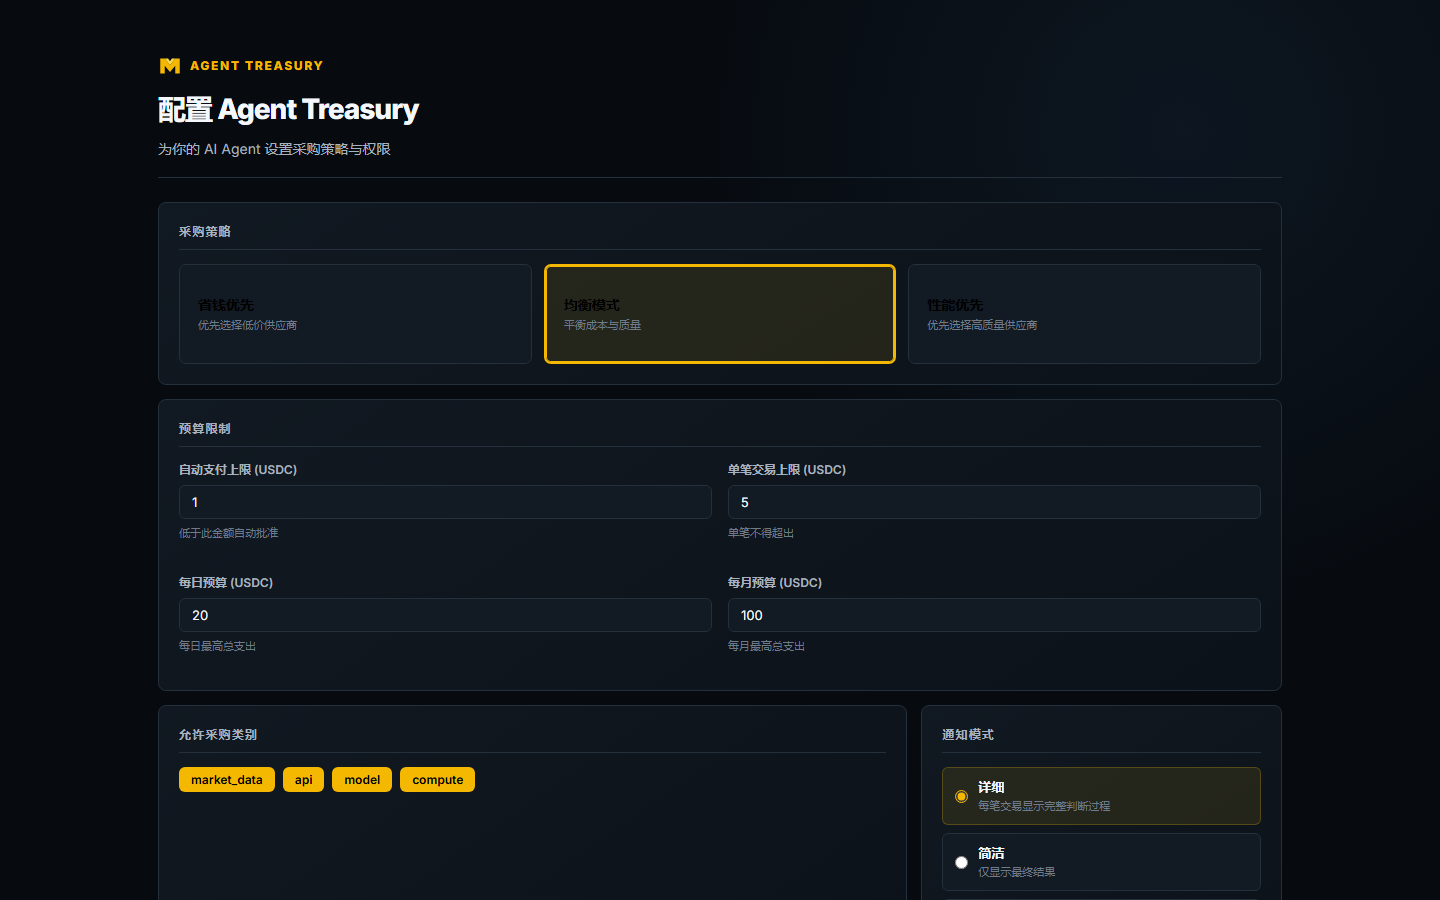
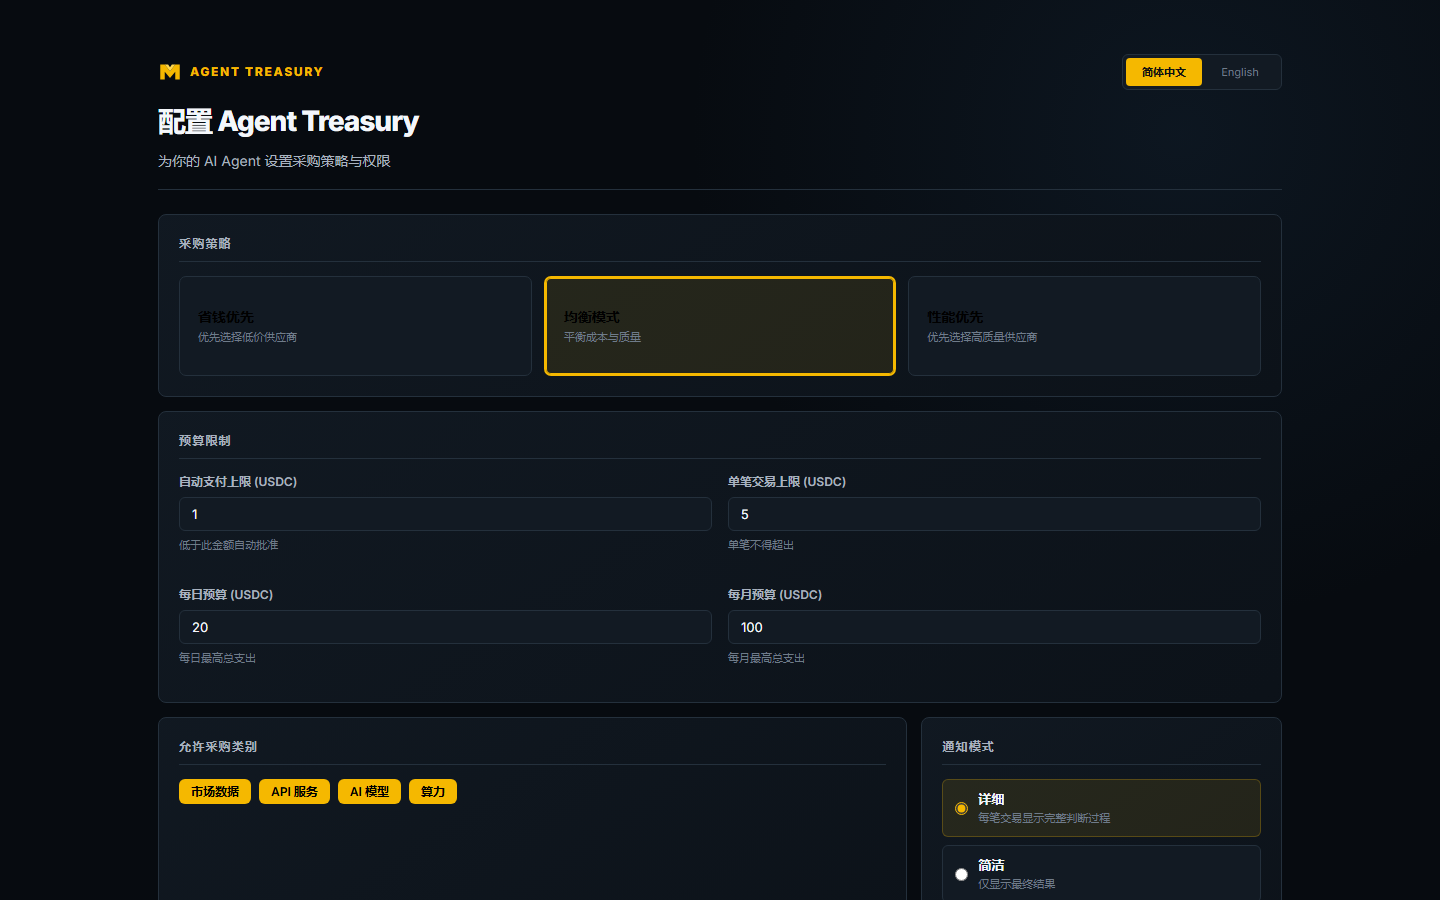
fix: add onboarding language switch

diff --git a/apps/demo-ui/src/index.css b/apps/demo-ui/src/index.css
@@ -396,7 +396,12 @@ body { background: radial-gradient(circle at 82% 12%, rgba(28, 52, 76, .28), tra
 /* V2 onboarding and secondary workspaces */
 .setup-container { max-width: 1180px; margin: 0 auto; padding: 34px 28px 58px; }
 .setup-header { text-align: left; margin-bottom: 24px; padding: 20px 0 18px; border-bottom: 1px solid var(--border); }
-.setup-logo { margin-bottom: 10px; font-size: 12px; letter-spacing: .14em; display:flex; align-items:center; gap:8px; }.setup-logo img { width:24px; height:24px; }.setup-title { font-size: 28px; letter-spacing: -.035em; }.setup-sub { color: var(--text-secondary); }
+.setup-header-bar { display:flex; align-items:center; justify-content:space-between; gap:20px; margin-bottom:10px; }
+.setup-logo { margin-bottom: 0; font-size: 12px; letter-spacing: .14em; display:flex; align-items:center; gap:8px; }.setup-logo img { width:24px; height:24px; }.setup-title { font-size: 28px; letter-spacing: -.035em; }.setup-sub { color: var(--text-secondary); }
+.setup-language { display:flex; padding:3px; border:1px solid var(--border); border-radius:6px; background:var(--surface2); }
+.setup-language button { min-width:76px; padding:7px 10px; border:0; border-radius:4px; color:var(--muted); background:transparent; font-size:11px; cursor:pointer; }
+.setup-language button:hover { color:var(--text); }
+.setup-language button.active { color:#111; background:var(--yellow); font-weight:700; }
 .setup-card { padding: 0; background: transparent; border: 0; display: grid; grid-template-columns: 1.35fr .65fr; gap: 14px; }
 .setup-section { margin: 0; padding: 20px; background: linear-gradient(145deg, rgba(17,25,34,.98), rgba(12,18,25,.98)); border: 1px solid var(--border); border-radius: 8px; }
 .setup-section:nth-child(1),.setup-section:nth-child(2),.setup-actions { grid-column: 1 / -1; }.setup-section-title { color: var(--text-secondary); }
@@ -420,7 +425,7 @@ body { background: radial-gradient(circle at 82% 12%, rgba(28, 52, 76, .28), tra
 .settings-contact { display:flex; align-items:center; justify-content:space-between; gap:24px; margin-top:16px; padding:18px 20px; border-top:1px solid var(--border); color:var(--text-secondary); }.settings-contact-title { margin-bottom:4px; color:var(--text); font-size:13px; font-weight:700; }.settings-contact p { margin:0; color:var(--muted); font-size:11px; }.settings-contact a { display:flex; align-items:center; gap:10px; min-width:220px; padding:10px 12px; border:1px solid var(--border); border-radius:6px; background:var(--surface2); color:var(--text); text-decoration:none; transition:border-color .15s ease,background .15s ease; }.settings-contact a:hover { border-color:var(--yellow-border); background:var(--yellow-bg); }.settings-contact a > span:nth-child(2) { display:flex; flex:1; flex-direction:column; gap:2px; }.settings-contact a b { font-size:12px; }.settings-contact a small { color:var(--muted); font-size:10px; }.x-mark { display:grid; place-items:center; width:28px; height:28px; border-radius:50%; background:#f4f6f8; color:#05080c; font-size:13px; font-weight:800; }.contact-arrow { color:var(--yellow); font-size:15px; }
 
 @media (max-width: 780px) {
-  .setup-container { padding: 20px 14px 80px; }.setup-card { grid-template-columns: 1fr; }.setup-section,.setup-section:nth-child(1),.setup-section:nth-child(2),.setup-actions { grid-column: 1; }.setup-actions .btn { flex: 1 !important; }
+  .setup-container { padding: 20px 14px 80px; }.setup-header-bar { align-items:flex-start; flex-direction:column; gap:12px; }.setup-language { align-self:stretch; }.setup-language button { flex:1; }.setup-card { grid-template-columns: 1fr; }.setup-section,.setup-section:nth-child(1),.setup-section:nth-child(2),.setup-actions { grid-column: 1; }.setup-actions .btn { flex: 1 !important; }
   .scenario-control { position:absolute; top:134px; left:14px; height:36px; padding:0 8px; }.scenario-control > span { display:none; }.workspace-actions { padding-bottom:46px; }.app-nav { overflow-x:auto; }.nav-btn { min-width:70px; }.approval-list-card { grid-template-columns:auto 1fr; }.approval-amount,.approval-list-card .btn { grid-column:2; }.report-kpis { grid-template-columns:1fr 1fr; }.analytics-grid,.dimension-grid { grid-template-columns:1fr; }.report-actions { align-items:flex-end; flex-direction:column; }.segment-control button { min-width:46px; padding:6px; }.ledger-toolbar { grid-template-columns:1fr 1fr; }.ledger-toolbar > span { text-align:left; }.detail-drawer { padding:18px; }.reconciliation-item { grid-template-columns:1fr auto; }.reconciliation-item > :nth-child(3) { grid-column:1; }.reconciliation-item .btn { grid-column:2; grid-row:1/3; }
   .accounting-query form { grid-template-columns:1fr; }.accounting-query form .btn { width:100%; }
   .settings-contact { align-items:flex-start; flex-direction:column; }.settings-contact a { width:100%; min-width:0; }

diff --git a/apps/demo-ui/src/pages/SetupPage.tsx b/apps/demo-ui/src/pages/SetupPage.tsx
@@ -1,5 +1,5 @@
-import { useState } from 'react';
-import { t, i18n } from '../i18n';
+import { useEffect, useState } from 'react';
+import { t, i18n, type Lang } from '../i18n';
 import { policyApi } from '../api/client';
 
 interface SetupDone {
@@ -10,8 +10,9 @@ const STRATEGIES = ['economy', 'balanced', 'performance'] as const;
 const CATEGORIES = ['market_data', 'api', 'model', 'compute'];
 
 export default function SetupPage({ onDone }: { onDone: SetupDone }) {
+  const [lang, setLang] = useState<Lang>(i18n.lang);
   const [, rerender] = useState(0);
-  useState(() => i18n.subscribe(() => rerender(n => n + 1)));
+  useEffect(() => i18n.subscribe(() => rerender(n => n + 1)), []);
 
   const [strategy, setStrategy] = useState<'economy' | 'balanced' | 'performance'>('balanced');
   const [autoPayLimit, setAutoPayLimit] = useState(1);
@@ -26,6 +27,11 @@ export default function SetupPage({ onDone }: { onDone: SetupDone }) {
     setCategories(prev =>
       prev.includes(cat) ? prev.filter(c => c !== cat) : [...prev, cat]
     );
+  };
+
+  const handleLangChange = (nextLang: Lang) => {
+    i18n.setLang(nextLang);
+    setLang(nextLang);
   };
 
   const handleSubmit = async () => {
@@ -50,7 +56,22 @@ export default function SetupPage({ onDone }: { onDone: SetupDone }) {
   return (
     <div className="setup-container">
       <div className="setup-header">
-        <div className="setup-logo"><img src="/agent-treasury-mark.svg" alt="" /> Agent Treasury</div>
+        <div className="setup-header-bar">
+          <div className="setup-logo"><img src="/agent-treasury-mark.svg" alt="" /> Agent Treasury</div>
+          <div className="setup-language" role="group" aria-label="Language / 语言">
+            {(['zh-CN', 'en'] as Lang[]).map(option => (
+              <button
+                key={option}
+                type="button"
+                className={lang === option ? 'active' : ''}
+                aria-pressed={lang === option}
+                onClick={() => handleLangChange(option)}
+              >
+                {option === 'zh-CN' ? '简体中文' : 'English'}
+              </button>
+            ))}
+          </div>
+        </div>
         <h1 className="setup-title">{t('setup.title')}</h1>
         <p className="setup-sub">{t('setup.subtitle')}</p>
       </div>
@@ -119,7 +140,7 @@ export default function SetupPage({ onDone }: { onDone: SetupDone }) {
                 style={{ cursor: 'pointer' }}
                 onClick={() => toggleCategory(cat)}
               >
-                {cat}
+                {t(`setup.category.${cat}`)}
               </button>
             ))}
           </div>

diff --git a/apps/demo-ui/screenshot-ui.js b/apps/demo-ui/screenshot-ui.js
@@ -56,6 +56,10 @@ try {
 
   await configure('zh-CN', false);
   await go('setup');
+  await page.getByRole('button', { name: 'English' }).click();
+  await page.getByRole('heading', { name: 'Configure Agent Treasury' }).waitFor();
+  await page.getByRole('button', { name: '简体中文' }).click();
+  await page.getByRole('heading', { name: '配置 Agent Treasury' }).waitFor();
   await capture('01-setup-zh.png');
 
   await configure('zh-CN', true);

diff --git a/apps/demo-ui/src/i18n/index.ts b/apps/demo-ui/src/i18n/index.ts
@@ -32,7 +32,7 @@ function detectLang(): Lang {
   const stored = localStorage.getItem('treasury-lang') as Lang | null;
   if (stored && (stored === 'zh-CN' || stored === 'en')) return stored;
   const nav = navigator.language || '';
-  if (/zh[-_]?Hans?|中文/.test(nav)) return 'zh-CN';
+  if (/^zh(?:-|_|$)/i.test(nav) || /中文/.test(nav)) return 'zh-CN';
   return 'en';
 }
 
